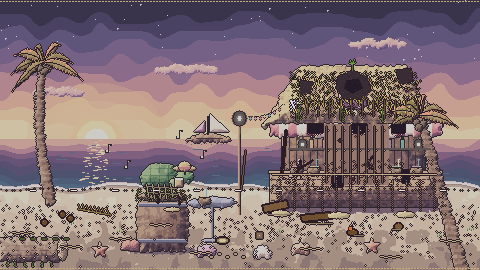
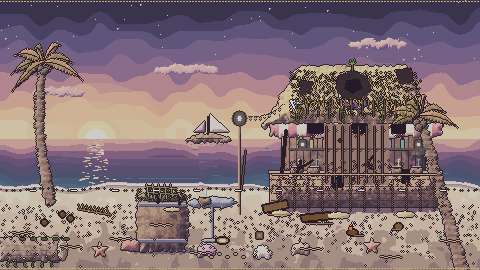
Tavern ruin: turtle and music notes removed
Claude-Session: https://claude.ai/code/session_01PZZqg8RPBQo7QXeUP2mpE9

Changed region(s): [[0.2812, 0.5333, 0.4375, 0.7111], [0.25, 0.5926, 0.2812, 0.6222], [0.2188, 0.5333, 0.25, 0.563]]

diff --git a/tools/gen_ruin_art.py b/tools/gen_ruin_art.py
@@ -45,6 +45,19 @@ def driftwood_tavern(p):
                 if (xx - cx) ** 2 + (yy - cy) ** 2 <= r * r:
                     p.recolor((xx, yy, xx, yy), lamp)
     p.remap(sat=0.55, val=0.86, tint=DUSK)
+    # the turtle musician is gone (a ruin would only make him sad): paint sea and sky back over him and the notes
+    def fill_from(box, src_x):
+        x0, y0, x1, y1 = box
+        for yy in range(y0, y1 + 1):
+            c = p.px[src_x, yy]
+            for xx in range(x0, x1 + 1):
+                p.px[xx, yy] = c
+    fill_from((138, 158, 186, 187), 130)
+    fill_from((187, 158, 198, 187), 130)
+    fill_from((104, 140, 114, 154), 136)     # music notes
+    fill_from((123, 158, 131, 170), 137)
+    fill_from((176, 128, 186, 138), 130)
+    fill_from((198, 146, 210, 160), 214)
     # crab leaves: paint wall back over the crab, then add a knocked-over cup
     wall = [p.sample(300, 143), p.sample(345, 150)]
     plank = [p.sample(300, 152), p.sample(304, 152), p.sample(309, 152)]
@@ -191,6 +204,8 @@ def driftwood_tavern(p):
     p.line([(78, 208), (110, 214)], hx('#8a7340'), 2)
     for k in range(0, 30, 4):
         p.line([(80 + k, 209 + k // 6), (78 + k, 204 + k // 6)], hx('#8a7340'))
+    fill_from((138, 158, 198, 164), 130)       # stray ink rows where the turtle sat
+    before.paste(p.im.crop((138, 157, 199, 166)), (138, 157))
     p.outline_new(before)
 
 
